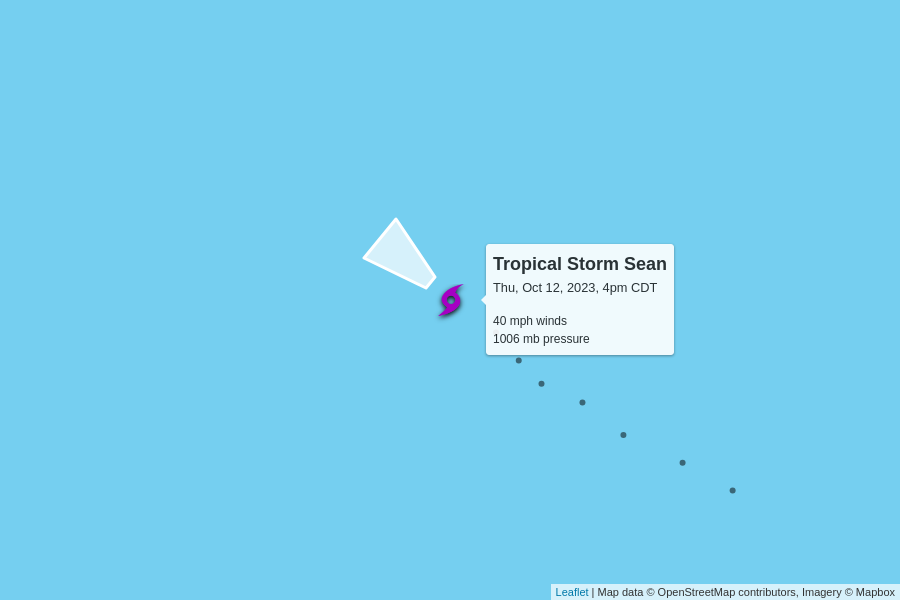
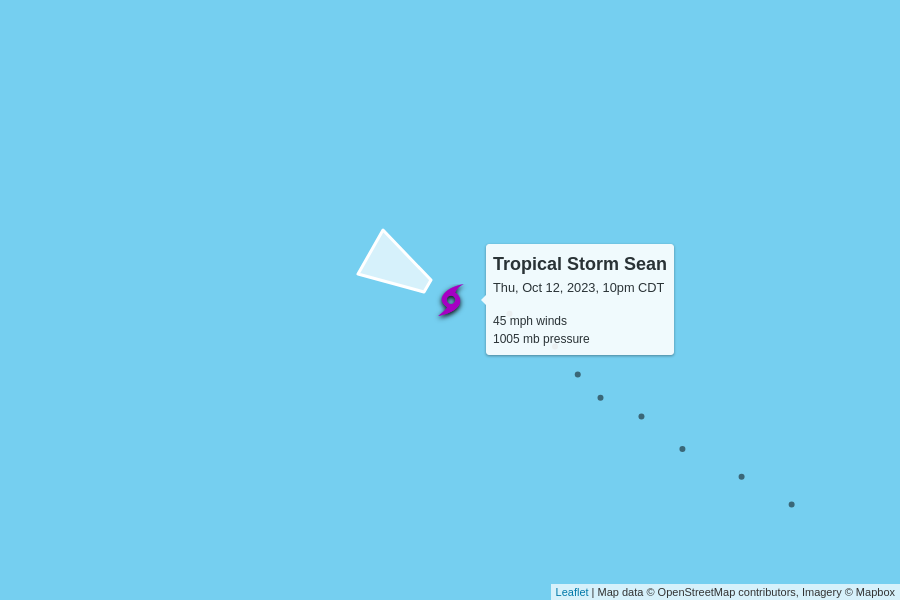
automatic update

Changed region(s): [[0.4044, 0.36, 0.4978, 0.48], [0.6844, 0.45, 0.7467, 0.51]]

diff --git a/docs/index.html b/docs/index.html
@@ -102,7 +102,7 @@
         <td colspan="6" class="storm category-0" >
           <h2>
             Tropical Storm Sean
-            <p class="updated">last updated <span data-time>2023-10-12T21:00:00.000Z</span></p>
+            <p class="updated">last updated <span data-time>2023-10-13T03:00:00.000Z</span></p>
           </h2>
         </td>
       </tr>
@@ -117,12 +117,12 @@
       </tr>
       <tr>
         <td class="spacer"></td>
-        <td>40 mph<br>0 mph since last update</td>
-        <td>1006 mb<br>0 mb since last update</td>
+        <td>45 mph<br>+5 mph since last update</td>
+        <td>1005 mb<br>-1 mb since last update</td>
         <td>
-          12 mph to the northwest
+          14 mph to the west-northwest
           <br/>
-          <span style="display: inline-block; font-size: 1.5em; transform: rotate(310deg);">↑</span>
+          <span style="display: inline-block; font-size: 1.5em; transform: rotate(300deg);">↑</span>
         </td>
         <td><a href="https://raw.githubusercontent.com/mgwalker/atlantic-hurricanes/main/data/csv/AL192023.csv">AL192023.csv</a></td>
         <td><a href="https://www.nhc.noaa.gov/archive/2023/SEAN.shtml?">NHC advisories</a></td>
